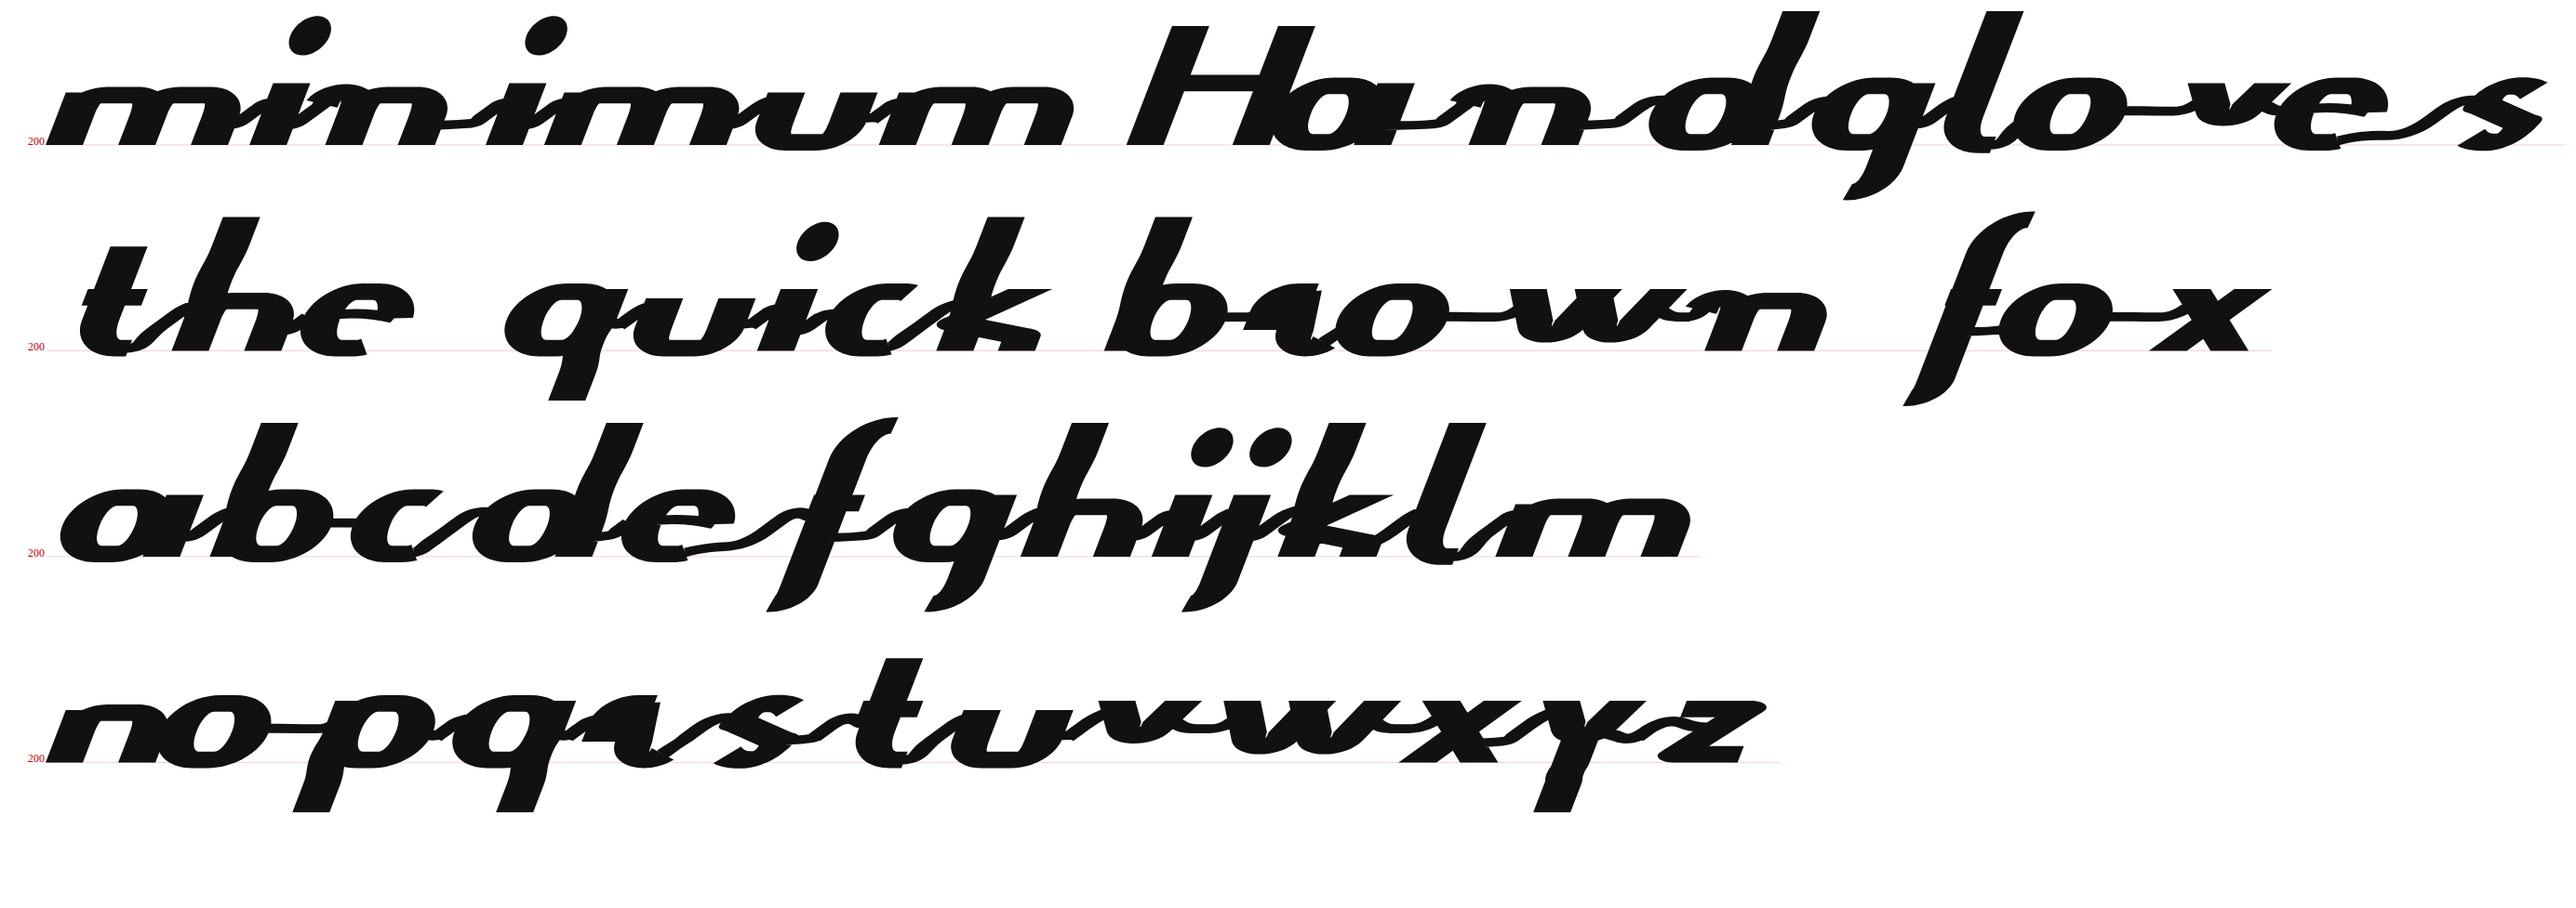
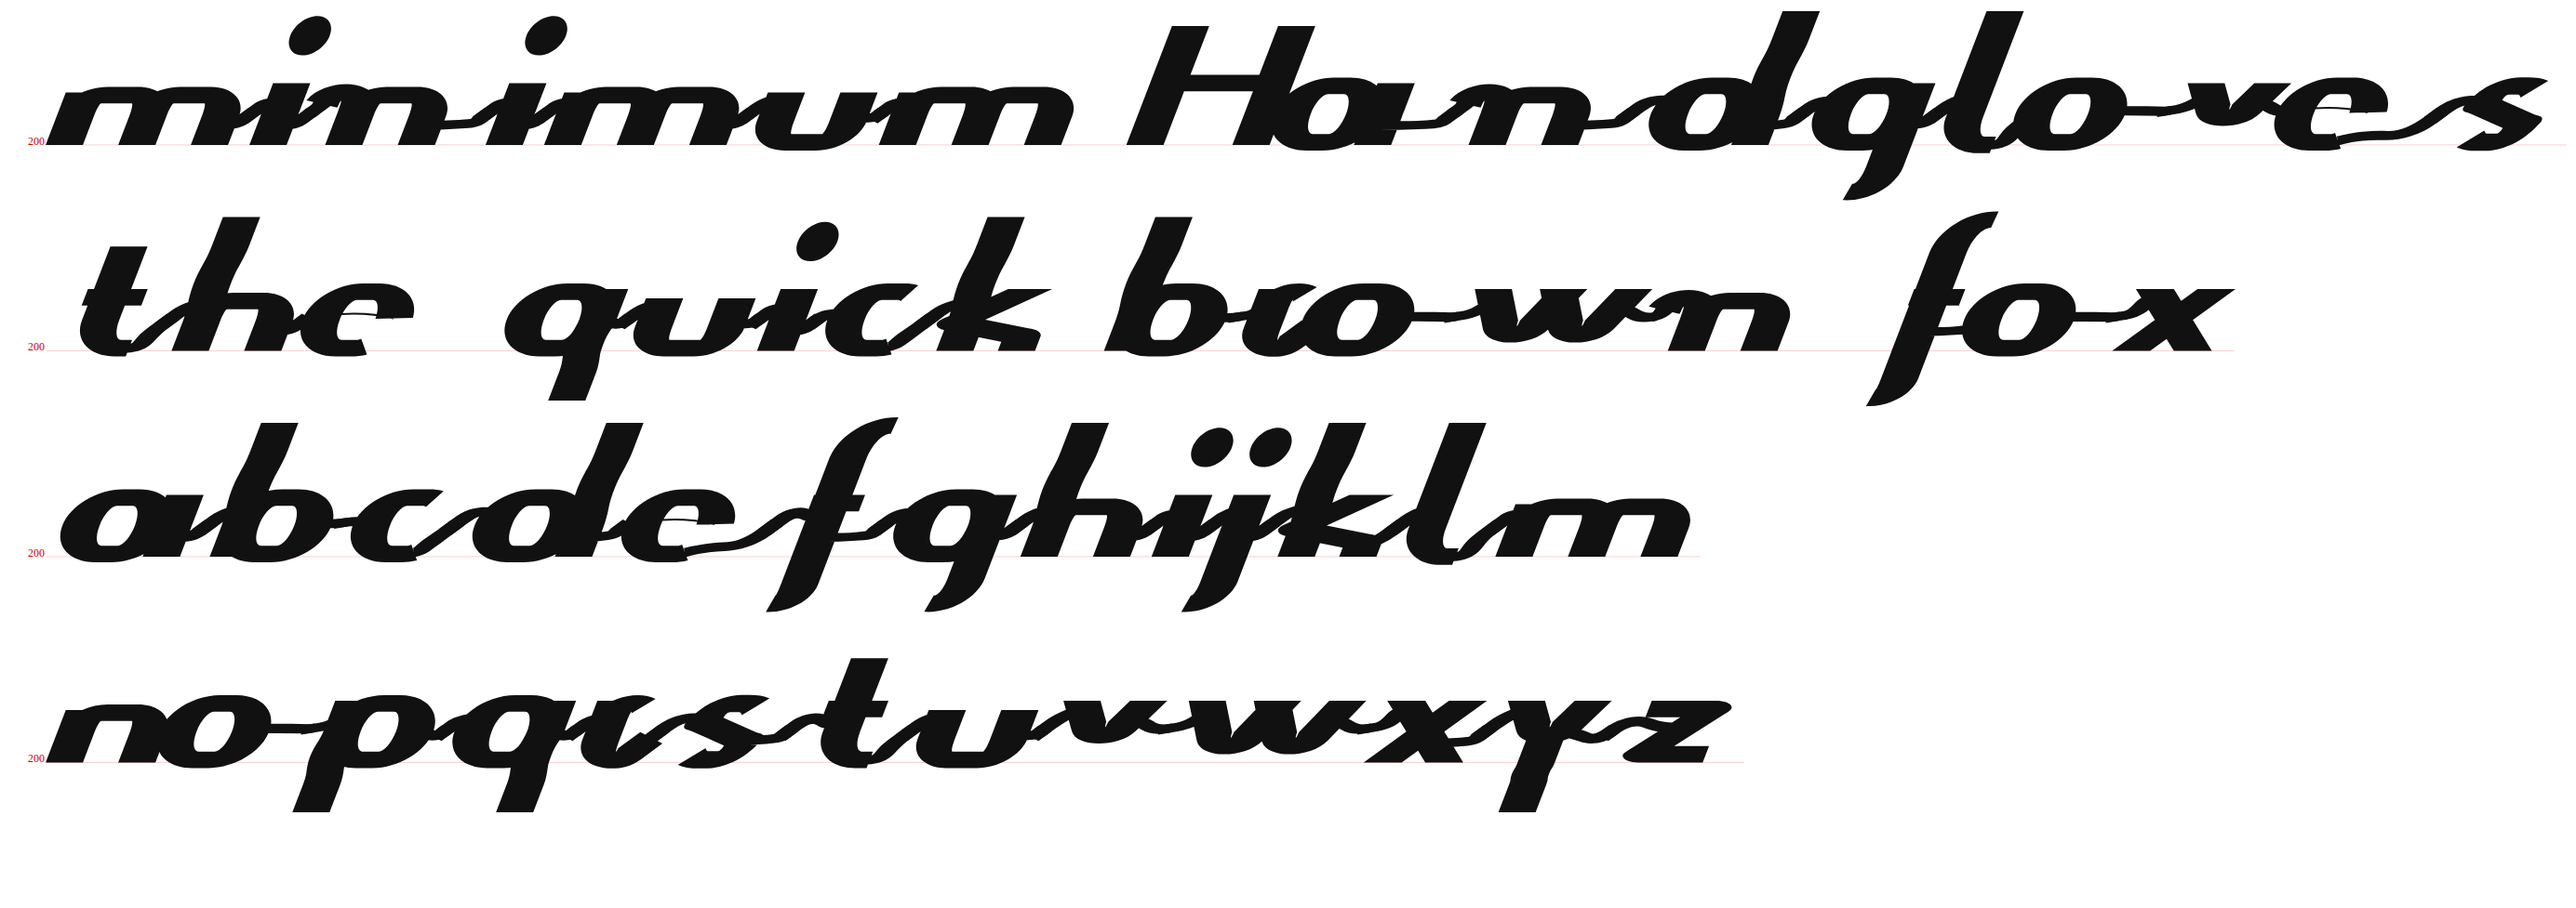
Scripts: summary and after screenshots for the second round
Claude-Session: https://claude.ai/code/session_012KtrgbXSJXhB2Pb2YU47zC

diff --git a/SUMMARY-script.md b/SUMMARY-script.md
@@ -121,46 +121,82 @@ All in `src/forge/script.ts`, `src/forge/letters.ts` and
     as the letters.
   - `letters.ts`: a written letter's drawn form keeps its own book page.
 
+## Second round: problems found by a full audit
+
+A sweep of every face, every weight from 20 to 260, every letter and every
+join position, and a read of pangrams set in each face, found more. Images of
+each as it was are in `docs/polish/script/problems/`.
+
+- **The joined `r` read as `v`** after a low join (`quartz` as `quavtz`). It
+  is now drawn as the reference scripts write it: a stem standing the full
+  x-height, a short drooping arm off its top, and a tight foot into the
+  lead-out. A written letter's lead-out now leaves from the end of its last
+  stroke, as `Recipe.leaves` already said.
+- **The loop pass read an overshoot as an ascender.** At the Thin the `r`'s
+  arm crested a few units over the x-height and was asked whether it had an
+  eye, which put the book of the drawn weight's decisions out of step: the
+  Monoline held its `r` back from the variable font. An end now has to clear
+  its line by a tenth of the x-height to count.
+- **Folds on a single weight.** The Monoline's word-end `r` at 217 (a stem bow
+  turning on the tightest radius the wave allows) and the Roundhand's `s` at
+  209 to 212 (a turn tighter than its nib). Bows now turn on a tenth more than
+  the pen, and the Black `s` never tighter than its nib's flattest curve.
+- **`The` set as `Lhe`.** The `T` and the `Y` handed on from the foot of a
+  stem standing on its own. The pen lifts after them now, as after an `I`.
+- **The high join a flat rule at 260.** It now climbs a little once the pen
+  is past a third of the x-height, up to twelve degrees; level at every
+  face's own weight.
+- **The heavy `s` a tenth of an x-height too tall.** A joined face's spine
+  may lie as flat as six degrees before the letter grows, with shorter
+  terminals so the top one stays off the spine. Now within a twentieth.
+- **The heavy `e` closed.** The written `e`'s bar goes lighter as the pen
+  gets heavy, and the eye is placed for that bar. The Roundhand takes the
+  written `e` too. At 260 every joined face's `e` keeps at least 2.5% of an
+  x-height squared of eye (Monoline 1.3% → 6.9%, Roundhand 1.0% → 2.8%).
+- **The Marker and Brush `k`** at 260 had a long thin blade of an arm. Both
+  take the grotesque `k` now.
+- **The tests** now draw every fifth weight and the weights where folds were
+  found, capitals included, and export all five joined faces as variable
+  fonts.
+
 ## Results
 
-- No lowercase letter of any joined face crosses itself in any drawing
-  (plain, high, word start and end) at 30, its own weight, 120, 160, 200 or
-  260. There were 53 before.
+- No letter of any joined face crosses itself in any drawing (plain, high,
+  word start and end) at any whole weight from 20 to 260. There were 53 at
+  the six weights first checked.
 - No join has a corner in it at any of the four weights. There were 217
   before.
-- Variable exports hold back nothing. Monoline 107 → 0, Roundhand 105 → 0;
-  Handwriting, Formal and Casual stay at 0.
+- Variable exports hold back nothing, on all seven hand faces. Monoline
+  107 → 0, Roundhand 105 → 0.
 - Default weights look as they did, apart from the fixed flags and nicks at
   loop joints.
 
 - No ink from one letter's join falls into the counter of the bowl after it
   (every pair of a joined letter into `a c e o d g q`, at every weight).
 - The joined faces' `s` keeps to the lines the `o` keeps to at 200. At 260 it
-  is within a tenth of an x-height of them, where it used to be up to 46
+  is within a twentieth of an x-height of them, where it used to be up to 46
   hundredths out.
 
-Tests: `src/forge/script-polish.test.ts`, twelve tests, each written to fail on
-the old code. `npx tsc -b --noEmit`, `npx biome check .` and
-`npx vitest run src/forge src/assemble src/library` (1213 tests) all pass.
+Tests: `src/forge/script-polish.test.ts`, fifteen tests, each written to fail
+on the old code. `npx tsc -b --noEmit`, `npx biome check .` and
+`npx vitest run src/forge src/assemble src/library` (1216 tests) all pass.
 
 ## What remains
 
+- **Capitals on the joined faces are print capitals.** They lean and join
+  onward, but they are the Sans's letters. Written capitals would be a new set
+  of 26 drawings, which is a design project rather than a fault, and the
+  capital recipes are shared with the other faces.
 - **Heavy scripts are squat.** A 260 pen on a 332 to 420 unit x-height is a
-  stem of two thirds of the x-height or more. The letters are legible and the
-  joins are clean, but they read as a heavy display script. Counters in `e`,
-  `a` and `g` are slits at 260.
-- **The high hand-over after `o v w b`** runs level near the top of the
-  letters at heavy weights. That is by design, but at 260 it reads a little
-  like a rule.
+  stem of two thirds of the x-height or more. Every counter is open and every
+  join is clean, but the faces read as a heavy display script there. The
+  Roundhand's bowls keep a fifth of an x-height squared of counter at 260,
+  about half what the other joined faces keep.
 - **Nib-pen loop tips.** On the Handwriting and the Casual Script the eye's
   round end stands 2 to 4 units past the corner of the stem's flat top, under
-  1% of the x-height and invisible at text size. The round end stays, because
-  it is what fills the nick at the foot of every loop on the Roundhand.
-- **The heaviest `s`** on a joined face still grows a little past the `o` at
-  260, as the Black `s` does on every face once the pen leaves no room.
-- **The heavy Marker and Brush `k` and `Z`** come from recipes shared with the
-  Sans and the other text faces. They are legible at 260 and were left to the
-  sessions that own those recipes.
+  1% of the x-height and invisible at text size. A square end was tried and
+  is worse on the Roundhand, whose round end fills the nick at the foot of
+  every loop.
 - **Node counts without the exporter's book.** Node counts are equal across
   weights through the export path, which is what a variable font uses. A
   letter drawn at an arbitrary slider weight without the book can still bow a
